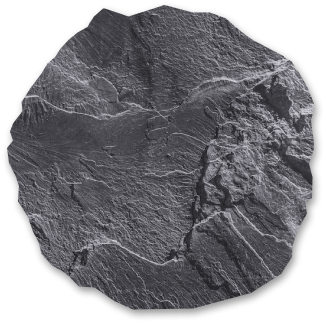
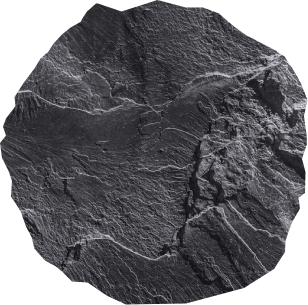
Tweaked object, left to fix dynam obj+control,wind

diff --git a/Sim.py b/Sim.py
@@ -36,7 +36,12 @@ background_surface.blit(background_image, (0, 0))
 # Surface for Wave and Objects
 wave_surface = pg.Surface((WIDTH, HEIGHT), pg.SRCALPHA)
 rock_surface = pg.Surface((WIDTH, HEIGHT), pg.SRCALPHA)
-rock_surface.blit(pg.image.load('rock.png'), (0, 0))
+rock_surface.blit(pg.image.load('Rock.png'), (0, 0))
+
+# rock_submurged_surface = pg.Surface((WIDTH, HEIGHT), pg.SRCALPHA)
+# rock_submurged_surface.blit(pg.image.load('Rock2.png'), (0, 0))
+imageRock = pg.image.load("Rock.png").convert_alpha()
+imageRockSubmerged = pg.image.load("Rock.png")
 
 
 # window.fill("black")
@@ -96,7 +101,7 @@ polygon_surface.blit(image_surface, (0, 0), special_flags=pg.BLEND_RGBA_MULT)
 # Draw The Simulation
 
 
-def draw(space, spaceObj, window, draw_options, wave, objects):
+def draw(space, spaceObj, window, draw_options, wave, objects, WAVEHEIGHT):
     # window.fill("black")
     # window.fill((0,0,0))
 
@@ -198,19 +203,23 @@ def draw(space, spaceObj, window, draw_options, wave, objects):
 
     # space.debug_draw(draw_options)
 
+    global imageRock, imageRockSubmerged
     for object in objects:
-        imageRock = pg.image.load("Rock.png")
+
+        if (object.body.position[1] > HEIGHT-WAVEHEIGHT):
+            pass
+        
         imageRock = pygame.transform.scale(
             imageRock, (object.radius*2, object.radius*2))
-
+        
         rockSurface = pg.Surface(
             (object.radius*2, object.radius*2), pg.SRCALPHA)
         pg.draw.circle(rockSurface, (255, 255, 255),
-                       (object.radius, object.radius), 15)
+                    (object.radius, object.radius), 15)
         image_rect = imageRock.get_rect(center=(object.radius, object.radius))
         rockSurface.blit(imageRock, image_rect)
         window.blit(
-            rockSurface, (object.body.position[0]-object.radius, object.body.position[1] - object.radius))
+            rockSurface, (object.body.position[0]-object.radius, object.body.position[1] - object.radius), special_flags=pg.BLENDMODE_ADD)
 
     # spaceObj.debug_draw(draw_options)
     pygame.display.flip()
@@ -258,7 +267,8 @@ def createObject(space, pos, radius=20, mass=100000, elasticity=0.2, friction=10
     body.velocity = (0, 981/2)
     shape = pm.Circle(body, radius)
     shape.mass = mass
-    shape.elasticity = elasticity
+    # shape.elasticity = elasticity
+    shape.elasticity = 0
     shape.friction = friction
     shape.color = (255, 255, 255, 100)
 
@@ -354,10 +364,11 @@ def main(window, width, height):
 
     # Create Wave
     # wave = [SpringPoints(loc, height/2) for loc in range(width//5)]
+    WaveHeight = HEIGHT/2
     intervals = np.linspace(-40, WIDTH+40, 100)
     # intervals = np.linspace(20, WIDTH-20, 5)
     print(intervals)
-    wave = [SpringPoints(space, loc, height/2, HEIGHT//2.4)
+    wave = [SpringPoints(space, loc, WaveHeight, HEIGHT//2.4)
             for loc in intervals]
     wave = np.array(wave)
     # wave = [SpringPoints(width/2, height/2)]
@@ -529,7 +540,7 @@ def main(window, width, height):
 
         # Check for Pause/Play State
         if not paused:
-            draw(space, spaceObj, window, draw_options, wave, objects)
+            draw(space, spaceObj, window, draw_options, wave, objects, WaveHeight)
             space.step(dt)
             spaceObj.step(dt)
             clock.tick(fps)
